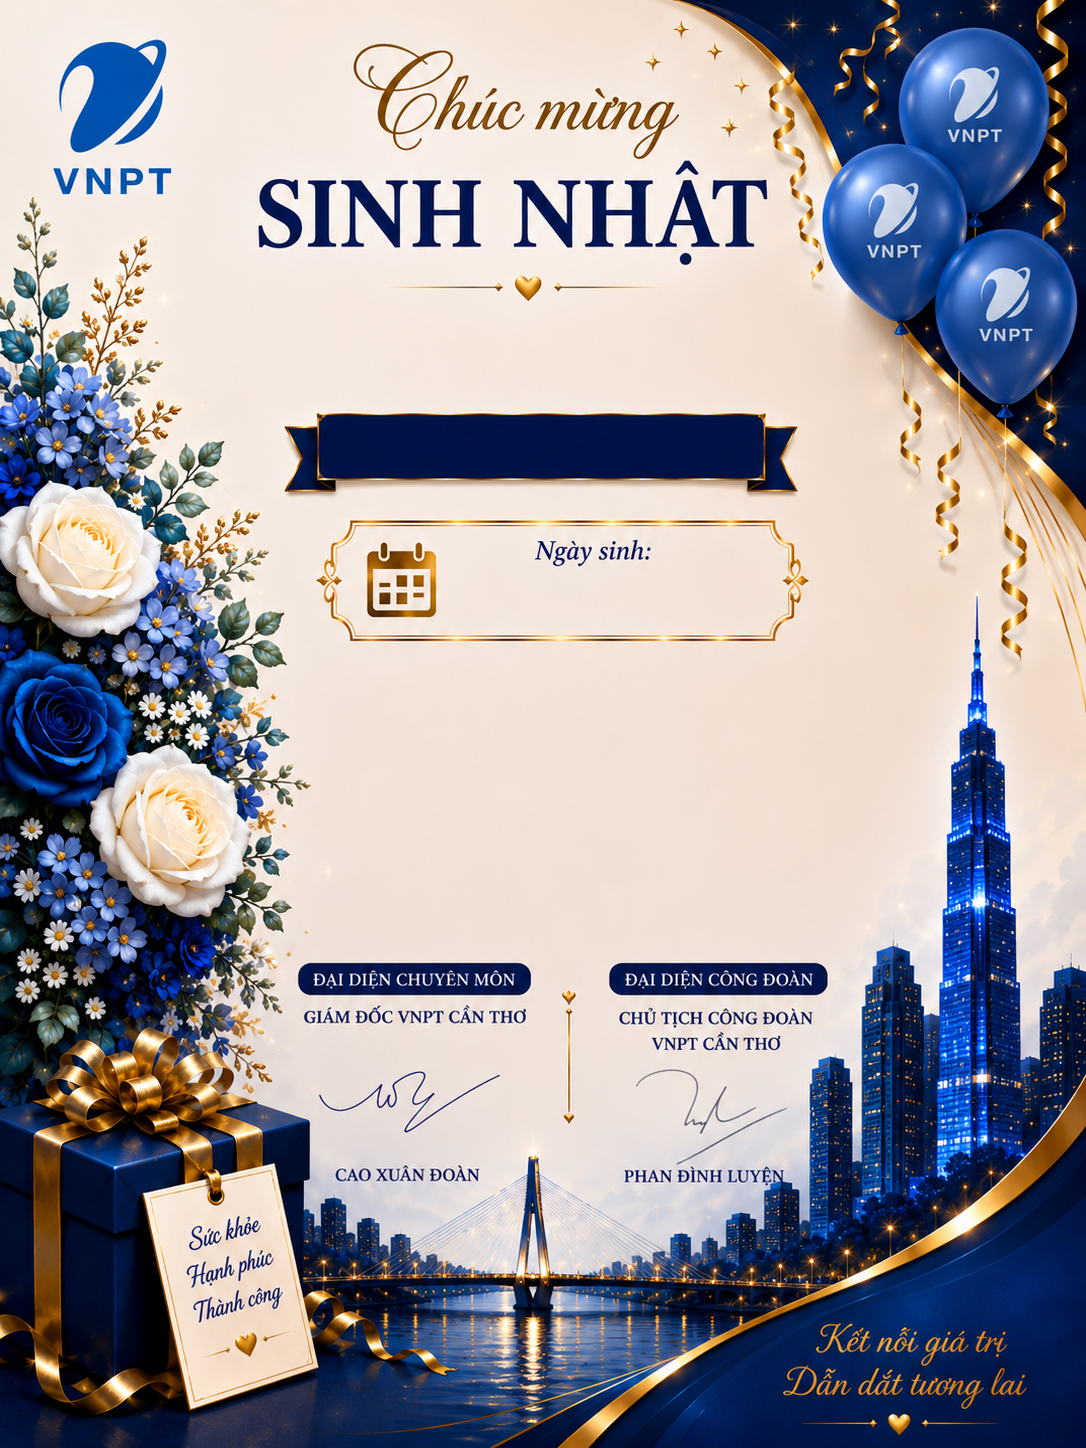
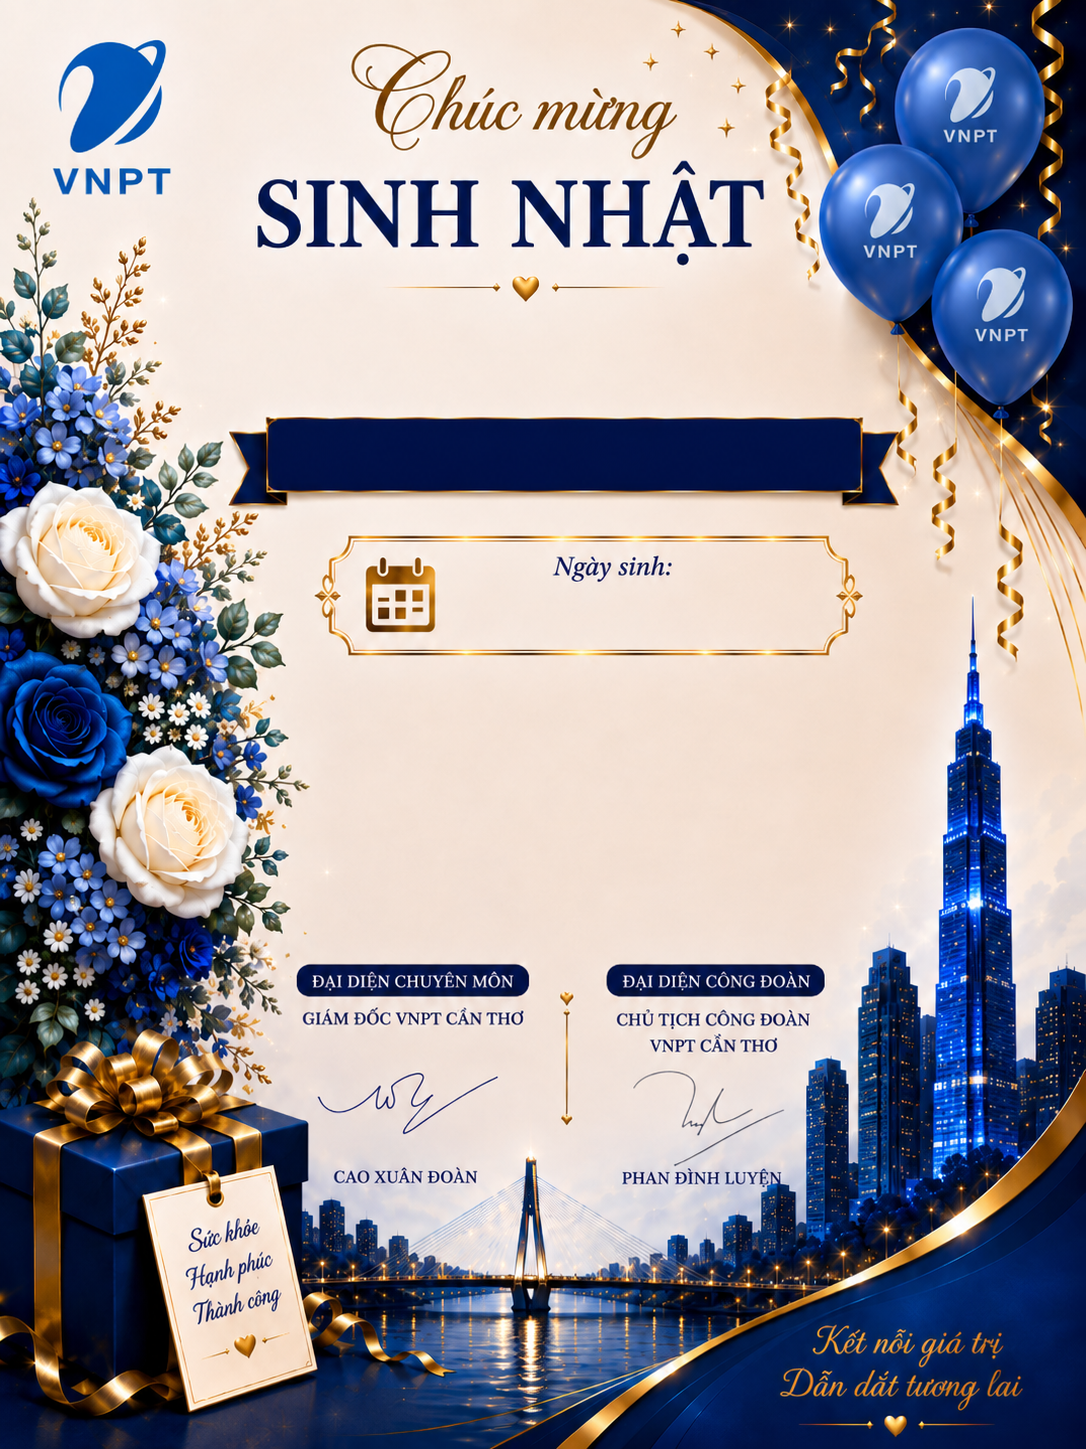
update template

diff --git a/frontend/src/components/automation/phase7/BlockEditorDialog.vue b/frontend/src/components/automation/phase7/BlockEditorDialog.vue
@@ -322,7 +322,7 @@ const BIRTHDAY_VNPT_SVG_TEMPLATE = `<svg xmlns="http://www.w3.org/2000/svg" widt
       .serif { font-family: 'Times New Roman', Georgia, serif; }
       .script { font-family: 'Brush Script MT', 'Segoe Script', cursive; font-style: italic; }
       .name { fill: #8a5b14; font-size: 64px; }
-      .unit { fill: #ffffff; font-size: 25px; font-weight: 700; letter-spacing: 1px; text-transform: uppercase; }
+      .unit { fill: #ffffff; font-size: 30px; font-weight: 700; letter-spacing: 1px; text-transform: uppercase; }
       .dob { fill: #06184a; font-size: 43px; font-weight: 700; letter-spacing: 8px; }
       .message { fill: #0b1f5f; font-size: 25px; font-style: italic; }
     </style>
@@ -335,8 +335,8 @@ const BIRTHDAY_VNPT_SVG_TEMPLATE = `<svg xmlns="http://www.w3.org/2000/svg" widt
   <rect x="286" y="594" width="530" height="150" fill="#f6e9de" opacity="0"/>
 
   <text x="465" y="326" text-anchor="middle" class="script name">{{contact.salutation}} {{contact.fullName}}</text>
-  <text x="487" y="402" text-anchor="middle" class="serif unit">{{contact.occupation}} - {{contact.unit}}</text>
-  <text x="540" y="542" text-anchor="middle" class="serif dob">{{contact.birthDate}}</text>
+  <text x="487" y="410" text-anchor="middle" class="serif unit">{{contact.unit}}</text>
+  <text x="550" y="555" text-anchor="middle" class="serif dob">{{contact.birthDate}}</text>
   <text x="557" y="625" text-anchor="middle" class="serif message">
     <tspan x="557" dy="0">{{contact.birthdayWishLine1}}</tspan>
     <tspan x="557" dy="38">{{contact.birthdayWishLine2}}</tspan>

diff --git a/assets/posts/automation/templates/birthday-card-vnpt.html b/assets/posts/automation/templates/birthday-card-vnpt.html
@@ -248,7 +248,7 @@
             name: 'Anh Thái Quang Hiếu',
             unit: 'VNPT CẦN THƠ',
             dob: '01/01/0000',
-            message: 'Nhân dịp sinh nhật của Anh, kính chúc Anh luôn dồi dào sức khỏe, hạnh phúc, thành công và tiếp tục dẫn dắt VNPT Cần Thơ phát triển vững mạnh, hoàn thành xuất sắc mọi nhiệm vụ, đóng góp tích cực vào sự phát triển chung của VNPT.'
+            message: 'Nhân dịp sinh nhật của Anh, kính chúc Anh luôn dồi dào sức khỏe, hạnh phúc, thành công và tiếp tục đồng hành cùng đơn vị phát triển vững mạnh, hoàn thành xuất sắc mọi nhiệm vụ, đóng góp tích cực vào sự phát triển chung của VNPT.'
         };
         const p = new URLSearchParams(location.search);
         function val(k) { return p.get(k) || defaults[k]; }

diff --git a/backend/src/modules/automation/template-renderer.ts b/backend/src/modules/automation/template-renderer.ts
@@ -31,7 +31,7 @@ function defaultBirthdayWishLines(context: AutomationTemplateContext): string[] 
   return [
     `Nhân dịp sinh nhật của ${s}, kính chúc ${s} luôn`,
     'dồi dào sức khỏe, hạnh phúc, thành công và tiếp tục',
-    `dẫn dắt ${unit} phát triển vững mạnh,`,
+    `đồng hành cùng với đơn vị phát triển vững mạnh,`,
     'hoàn thành xuất sắc mọi nhiệm vụ, đóng góp tích cực',
     'vào sự phát triển chung của VNPT.',
   ];

diff --git a/backend/tests/send-message-group-template.test.ts b/backend/tests/send-message-group-template.test.ts
@@ -314,7 +314,7 @@ describe('sendMessageHandler group target with template', () => {
       'nick-1',
       'group-123',
       1,
-      { msg: 'Nhân dịp sinh nhật của Anh, kính chúc Anh luôn / dẫn dắt Don vi A phát triển vững mạnh,' },
+      { msg: 'Nhân dịp sinh nhật của Anh, kính chúc Anh luôn / đồng hành cùng Don vi A phát triển vững mạnh,' },
     );
   });
 
